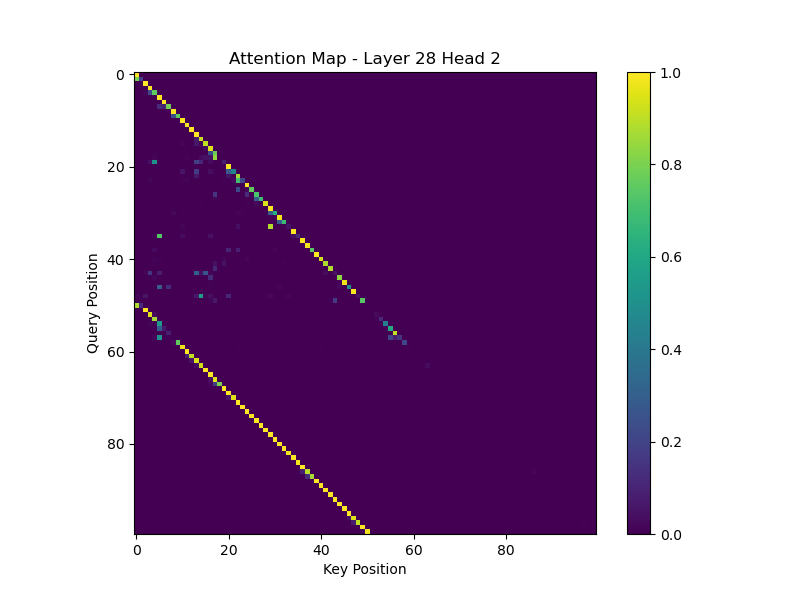
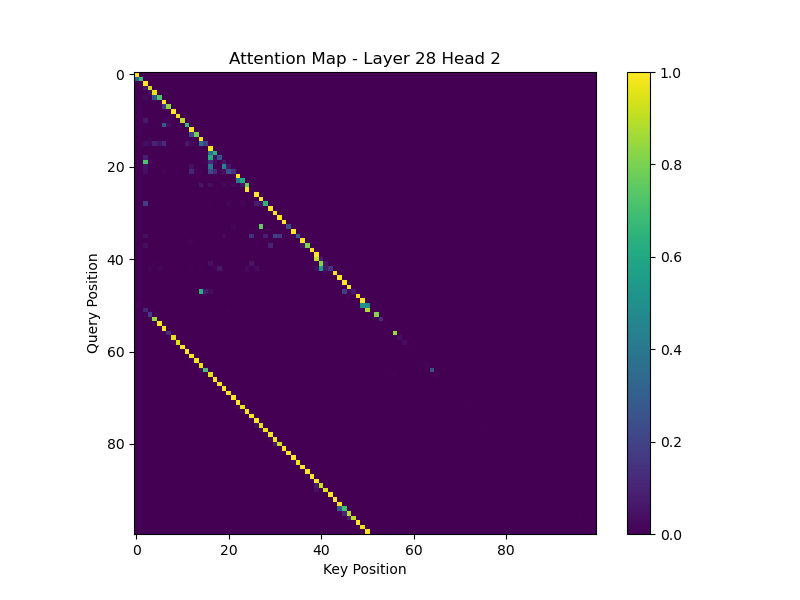
gemma maps

diff --git a/circuit/ablate_heads.py b/circuit/ablate_heads.py
@@ -3,6 +3,7 @@ import numpy as np
 import torch
 from jinja2 import Template
 from transformer_lens import HookedTransformer
+from transformer_lens.utils import get_act_name
 from argparse import ArgumentParser
 import jsonlines
 from utils import combine_params, get_data, load_heads, render_prompt, get_gold_ans
@@ -42,33 +43,6 @@ def check_logits_for_next_token(model: HookedTransformer, tokens, topk: int = 5)
         print(f"  Token: {repr(token_str)} | Logit: {float(val):.4f}")
     print()
 
-def plot_attention_map(attention_data, tokens, output_dir, layer, head):
-    """Plot and save attention map for the specified layer and head."""
-    plt.figure(figsize=(8, 8))
-    plt.imshow(attention_data, cmap='viridis', aspect='auto')
-    plt.colorbar()
-    token_labels = [model.to_string([t]) for t in tokens]
-    plt.xticks(ticks=np.arange(len(token_labels)), labels=token_labels, rotation=90)
-    plt.yticks(ticks=np.arange(len(token_labels)), labels=token_labels)
-    plt.title(f"Attention from token 'w' to next token\nLayer {layer}, Head {head}")
-    
-    if not os.path.exists(output_dir):
-        os.makedirs(output_dir)
-    
-    attention_plot_path = os.path.join(output_dir, f"attention_layer{layer}_head{head}.png")
-    plt.tight_layout()
-    plt.savefig(attention_plot_path)
-    plt.close()
-
-def capture_attention_hook(layer: int, head: int):
-    """Hook to capture attention data for a specific head."""
-    def hook(value, hook):
-        # Capture attention data from hook_values (shape: [batch_size, num_heads, seq_len, seq_len])
-        attention_data = value # Attention for all heads
-        return attention_data
-    return hook
-
-
 parser = ArgumentParser()
 parser.add_argument("-m", "--model", dest="model", help="choose model")
 parser.add_argument("-v", "--version", dest="version", help="instruct or non-instruct model version")
@@ -86,6 +60,7 @@ set_global_seed(args.seed)
 
 model = HookedTransformer.from_pretrained(model_name)
 model.cfg.use_cache = False
+tokenizer = model.tokenizer
 
 data = get_data(data_path)[:100]
 inp_length = len(data[0]['input'])
@@ -104,6 +79,7 @@ print(f"Random seed: {args.seed}, top_k: {args.top_k}")
 
 answers = []
 output_dir = 'attention_plots'
+attention_scores = {}
 
 for example in data:
     if args.version == 'non-instruct':
@@ -114,24 +90,17 @@ for example in data:
     system_prompt, task_prompt = render_prompt(system_path, task_path, example['input'])
     prompt = template.render(system=system_prompt, user_input=task_prompt)
     tokens = model.to_tokens(prompt)
-    token_strs = model.to_string(tokens[0])
+    w_token_id = tokenizer.encode('w', add_special_tokens=False)[0]
     
     try:
-        w_index = token_strs.index('w')
-        next_token_index = w_index + 1
+        w_indices = [i for i, x in enumerate(tokens[0]) if x == w_token_id]
     except ValueError:
-        print(f"Token 'w' not found in the input: {token_strs}")
+        print(f"Token 'w' not found in the input: {tokens[0]}")
         continue
-    
-    print(f"Found 'w' at index {w_index}, next token at index {next_token_index}")
 
     hooks = [
         (f'blocks.{layer}.attn.hook_z', ablate_head_hook(layer, head))
         for layer, head in heads_to_ablate
-    ]
-    capture_hooks = [
-        (f'blocks.{layer}.attn.hook_pattern', capture_attention_hook(layer, head))
-        for layer in range(model.cfg.n_layers) for head in range(model.cfg.n_heads)
     ]
     
     original_loss = model(tokens, return_type="loss")
@@ -141,51 +110,56 @@ for example in data:
         fwd_hooks=hooks
     )
 
-    print(f"Original Loss: {original_loss.item():.3f}")
-    print(f"Ablated Loss: {ablated_loss.item():.3f}")
+    #print(f"Original Loss: {original_loss.item():.3f}")
+    #print(f"Ablated Loss: {ablated_loss.item():.3f}")
 
-    attention_scores = {}
-    with model.hooks(fwd_hooks=hooks+capture_hooks):
-        generated_tokens = model.generate(
-                tokens,
-                max_new_tokens=max_new,
-                stop_at_eos=True,
-                do_sample=False,
-                top_k=args.top_k,
-                temperature=0, 
-            )
+    _, cache = model.run_with_cache(
+            tokens,
+            names_filter=lambda name: "attn" in name,
+            return_type=None
+        )
 
-        for layer in range(model.cfg.n_layers):
-            for head in range(model.cfg.n_heads):
-                # Access the captured attention data from the hook
-                attention_data = model.hooks[f'blocks.{layer}.attn.hook_pattern'][0, :, head, :].detach().cpu().numpy()
-                attention_score = attention_data[w_index, next_token_index]  # Focus on attention from 'w' to the next token
-                attention_scores[(layer, head)] = attention_score
-  
-        sorted_attention_heads = sorted(attention_scores.items(), key=lambda x: x[1], reverse=True)[:10]
-        for (layer, head), score in sorted_attention_heads:
-            print(f"Saving attention map for Layer {layer}, Head {head} with score {score:.4f}")
-            attention_data = model.attn_data[layer, head, w_index, next_token_index]
-            plot_attention_map(attention_data, tokens, output_dir, layer, head)
+    for layer in range(model.cfg.n_layers):
+        for head in range(model.cfg.n_heads):
+            attn_patterns = cache[get_act_name("attn", layer)]
+            head_patterns = attn_patterns[:, head, :, :]
+            if (layer, head) in attention_scores.keys():
+                attention_scores[(layer, head)] += head_patterns[0, w_indices[1], w_indices[0]].item()
+            else:
+                attention_scores[(layer, head)] = head_patterns[0, w_indices[1], w_indices[0]].item()
 
-    new_tokens = generated_tokens[0, tokens.shape[-1]:]
-    generated_text = model.to_string(new_tokens)
+    
+    # with model.hooks(fwd_hooks=hooks):
+    #     generated_tokens = model.generate(
+    #             tokens,
+    #             max_new_tokens=max_new,
+    #             stop_at_eos=True,
+    #             do_sample=False,
+    #             top_k=args.top_k,
+    #             temperature=0, 
+    #         )
 
-    answer = {
-        'input': example['input'],
-        'gold_ans_char': get_gold_ans(example['input'], args.task),
-        'full_answer': generated_text
-    }
-    answers.append(answer)
+    # new_tokens = generated_tokens[0, tokens.shape[-1]:]
+    # generated_text = model.to_string(new_tokens)
 
-output_path = (
-    'results/'
-    + args.model + '_'
-    + args.version + '_'
-    + args.task + '_'
-    + args.type + "_"
-    + str(inp_length)
-    + '.jsonl'
-)
-with jsonlines.open(output_path, mode='w') as writer:
-    writer.write_all(answers)
+    # answer = {
+    #     'input': example['input'],
+    #     'gold_ans_char': get_gold_ans(example['input'], args.task),
+    #     'full_answer': generated_text
+    # }
+    # answers.append(answer)
+sorted_attention_heads = sorted(attention_scores.items(), key=lambda x: x[1], reverse=True)[:10]
+for (layer, head), score in sorted_attention_heads:
+    print(f"Attention for Layer {layer}, Head {head} with score {score:.4f}")
+
+# output_path = (
+#     'results/'
+#     + args.model + '_'
+#     + args.version + '_'
+#     + args.task + '_'
+#     + args.type + "_"
+#     + str(inp_length)
+#     + '.jsonl'
+# )
+# with jsonlines.open(output_path, mode='w') as writer:
+#     writer.write_all(answers)
